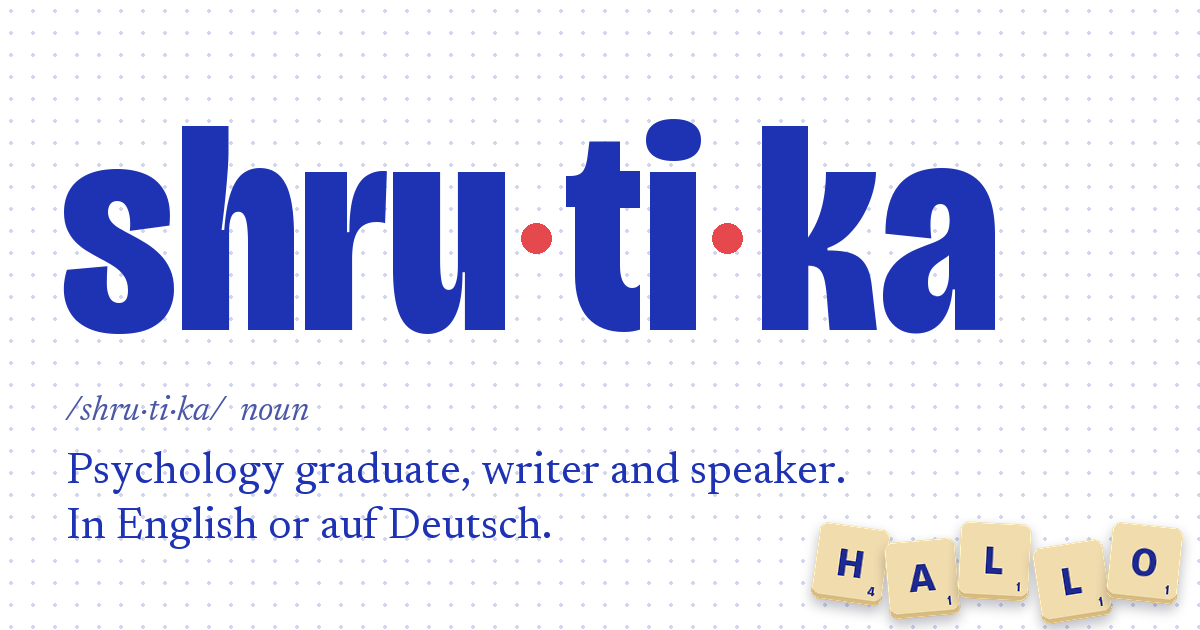
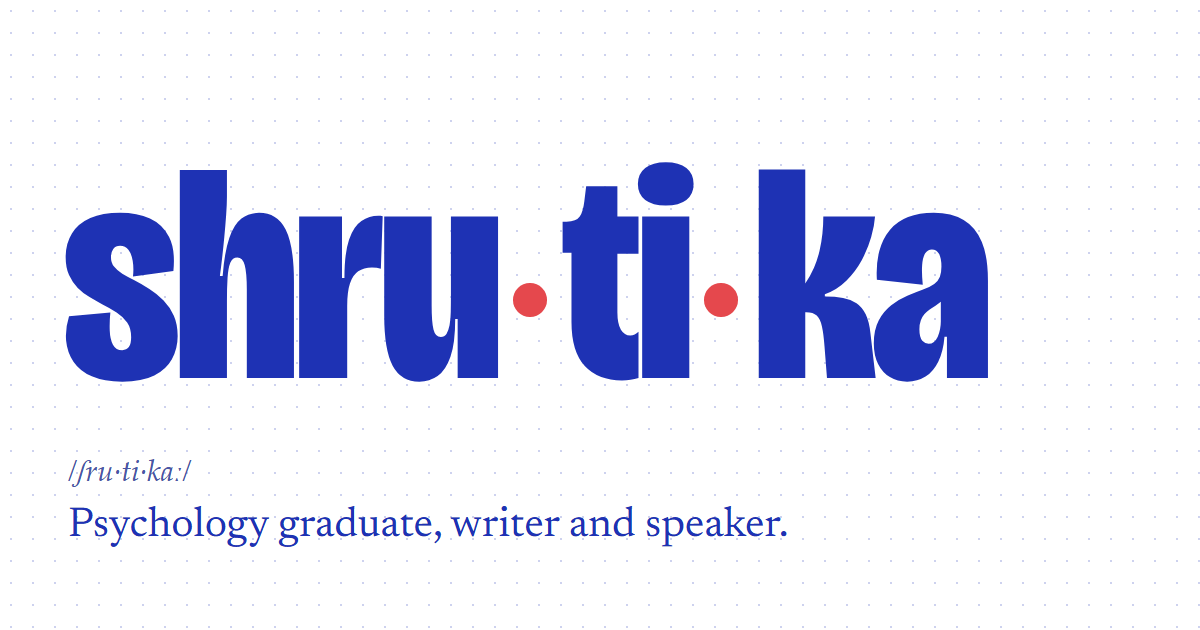
Add 16T video, fix text, remake share image without German

diff --git a/src/lib/videos.ts b/src/lib/videos.ts
@@ -79,4 +79,11 @@ export const VIDEOS: Video[] = [
     link: 'https://www.tiktok.com/@chiyasnooks/video/7549870890348039444',
     thumb: '10.jpg',
   },
+  {
+    title: 'First time at 16T? Don’t let the menu confuse you',
+    by: '16T Restro and Bar',
+    platform: 'Instagram',
+    link: 'https://www.instagram.com/reel/DeEs-opAgpm/',
+    thumb: '11.jpg',
+  },
 ];
